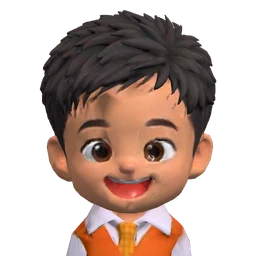
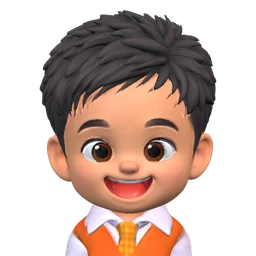
Polish phone camera, controls, HUD, portraits, and jump bar

diff --git a/src/styles.css b/src/styles.css
@@ -179,14 +179,26 @@ html.touch-ui.game-started .touch-layer {
   position: absolute;
   box-sizing: border-box;
   border-radius: 50%;
-  border: 5px solid rgba(255, 255, 255, 0.9);
-  opacity: 0.82;
+  border: 0;
+  opacity: 0.9;
   display: flex;
   align-items: center;
   justify-content: center;
-  box-shadow: 0 4px 12px rgba(0, 0, 0, 0.3);
+  box-shadow: none;
   transition: transform 0.06s, opacity 0.06s, filter 0.06s;
   pointer-events: none; /* the layer does the hit testing */
+}
+.tc-button-visual {
+  width: 82%;
+  height: 82%;
+  border-radius: 50%;
+  border: 4px solid rgba(255, 255, 255, 0.9);
+  box-sizing: border-box;
+  display: flex;
+  align-items: center;
+  justify-content: center;
+  box-shadow: 0 3px 9px rgba(0, 0, 0, 0.26);
+  transition: transform 0.06s, filter 0.06s;
 }
 .tc-button svg {
   width: 62%;
@@ -194,10 +206,12 @@ html.touch-ui.game-started .touch-layer {
   filter: drop-shadow(0 2px 2px rgba(0, 0, 0, 0.25));
 }
 .tc-button.pressed {
-  transform: scale(0.9);
   opacity: 1;
+}
+.tc-button.pressed .tc-button-visual {
+  transform: scale(0.9);
   filter: brightness(1.25);
-  box-shadow: 0 0 0 6px rgba(255, 255, 255, 0.5);
+  box-shadow: 0 0 0 5px rgba(255, 255, 255, 0.45);
 }
 
 /* ---- Start screen (logo) ---- */
@@ -641,7 +655,9 @@ html.touch-ui .dlg.compact .dlg-text {
   color: #2b3a55;
   font-size: 24px;
   font-weight: 800;
-  line-height: 1.22;
+  /* Exact pixel line box avoids a 1 px scroll overflow from fractional
+     rounding in Safari/Chromium at phone scale. */
+  line-height: 30px;
   overflow-wrap: anywhere;
   text-wrap: pretty;
 }
@@ -671,7 +687,7 @@ html.touch-ui .dlg.compact .dlg-text {
   }
   .dlg-text {
     font-size: 19px;
-    line-height: 1.18;
+    line-height: 24px;
   }
   .dlg-card {
     gap: 10px;
@@ -818,9 +834,11 @@ html:not(.touch-ui) .prompt-key {
 
 /* Touch button pulse: "something is in reach" */
 .tc-button.pulse {
-  animation: tc-pulse 0.85s ease-in-out infinite;
-  box-shadow: 0 0 0 6px rgba(255, 210, 63, 0.75), 0 4px 12px rgba(0, 0, 0, 0.3);
   opacity: 1;
+}
+.tc-button.pulse .tc-button-visual {
+  animation: tc-pulse 0.85s ease-in-out infinite;
+  box-shadow: 0 0 0 5px rgba(255, 210, 63, 0.75), 0 3px 9px rgba(0, 0, 0, 0.26);
 }
 @keyframes tc-pulse {
   0%,
@@ -833,9 +851,9 @@ html:not(.touch-ui) .prompt-key {
 }
 
 /* Flying: the jump button glows and flickers like a jet while it is held */
-.tc-button.jets {
+.tc-button.jets .tc-button-visual {
   background: radial-gradient(circle at 50% 80%, #fff3b0 0%, #ffb020 45%, #ff6a00 100%) !important;
-  box-shadow: 0 0 0 6px rgba(255, 190, 40, 0.8), 0 0 26px 10px rgba(255, 140, 0, 0.65);
+  box-shadow: 0 0 0 5px rgba(255, 190, 40, 0.8), 0 0 22px 8px rgba(255, 140, 0, 0.65);
   opacity: 1;
   animation: tc-jets 0.16s ease-in-out infinite;
 }
@@ -850,7 +868,7 @@ html:not(.touch-ui) .prompt-key {
 }
 
 @media (prefers-reduced-motion: reduce) {
-  .tc-button.jets {
+  .tc-button.jets .tc-button-visual {
     animation: none;
   }
   .dlg-card.pop,
@@ -1903,6 +1921,8 @@ html.touch-ui .city-toast {
 html.touch-ui .ch5-stars,
 html.touch-ui .ch3-count {
   top: calc(env(safe-area-inset-top) + 44px);
+  left: calc(env(safe-area-inset-left) + 14px);
+  transform: none;
 }
 html.touch-ui .ch5-stars {
   padding: 1px 10px;

diff --git a/src/ui/TouchControls.ts b/src/ui/TouchControls.ts
@@ -7,7 +7,7 @@ export interface TouchButtonDef {
   /** Inline SVG markup (no text: the player cannot read). */
   icon: string;
   color: string;
-  /** CSS px, must stay >= 80. */
+  /** CSS px hit target, must stay >= 80. */
   size: number;
   /** Distance of the button's right/bottom edge from the screen corner (safe area is added). */
   right: number;
@@ -70,7 +70,7 @@ const JOYSTICK_ZONE = 0.45;
 const isShort = (m: ViewMetrics): boolean => m.h < SHORT_HEIGHT;
 const clamp = (v: number, lo: number, hi: number): number => Math.max(lo, Math.min(hi, v));
 
-/** Jump is the biggest button. Short: scales with the height, 88..100. Tall: 104. */
+/** Jump is the biggest hit target; its visible disc is smaller (CSS). */
 function jumpSize(m: ViewMetrics): number {
   return isShort(m) ? Math.round(clamp(m.h * 0.34, 88, 100)) : 104;
 }
@@ -306,8 +306,7 @@ export class TouchControls {
     for (const d of defs) {
       const b = div('tc-button');
       b.dataset.action = d.action;
-      b.style.background = d.color;
-      b.innerHTML = d.icon;
+      b.innerHTML = `<span class="tc-button-visual" style="background:${d.color}">${d.icon}</span>`;
       this.layer.appendChild(b);
       this.buttons.set(d.action, b);
       if (this.pulsing.has(d.action)) b.classList.add('pulse');

diff --git a/src/world/kota/KotaLevel.ts b/src/world/kota/KotaLevel.ts
@@ -21,6 +21,8 @@ import { MARKET } from './Bab3Data';
 import { Chapter4 } from './Chapter4';
 import { Chapter5 } from './Chapter5';
 import { Chapter6 } from './Chapter6';
+import { Kit } from '../bab1/Kit';
+import { JumpTutorial } from '../bab1/JumpTutorial';
 
 /** Recipes are CPU-only and identical on every visit: built once per page. */
 let BUILT: BuiltCity | null = null;
@@ -192,6 +194,14 @@ export class KotaLevel implements Level {
     const sp = this.spawn;
     this.streamer.ensureNear(sp.x, sp.z, STREAM.colIn);
     this.streamer.flushVisuals(sp.x, sp.z);
+    // CityData keeps the jump-bar collider after Chapter 1. Keep its striped
+    // visual too, otherwise returning players trip over an invisible bar.
+    if (sandbox || bab1) {
+      const b = CITY_LAYOUT.chapter1.bar;
+      const kit = new Kit(ctx.physics, mats, true);
+      new JumpTutorial(ctx, kit, ctx.fx.sparkles, { x: b.x, z: b.z, half: b.w / 2, h: b.h, plankDx: 1.6, collider: false, y: 0 });
+      kit.build(root);
+    }
 
     // The hidden old Barongsai building: a faint golden glimmer at its door and the hook zone.
     const door = CITY_LAYOUT.lab.door;

diff --git a/src/camera/ThirdPersonCamera.ts b/src/camera/ThirdPersonCamera.ts
@@ -14,7 +14,9 @@ export const CameraConfig = {
   /** Radians of rotation per pixel of mouse movement (pointer locked). */
   mouseSensitivity: 0.0025,
   /** Default distance from the look target (m). */
-  distance: 6,
+  // Phone review: 17% closer than the old framing, while preserving clear
+  // sight lines in the Lab. The manual close step reaches 3 m.
+  distance: 5,
   /** Closest the camera may get when pulled in by walls (m). */
   minDistance: 1.2,
   /** Look target height above the capsule center (capsule center ~0.55 m, head top ~1.1 m). */
@@ -64,8 +66,8 @@ export const CameraConfig = {
   flySharpness: 2.5,
 
   // --- Manual zoom (wheel, +/-, pinch, buttons, R3/L3): a multiplier on the whole follow distance ---
-  zoomMin: 0.55,
-  zoomMax: 1.9,
+  zoomMin: 0.6,
+  zoomMax: 2,
   /** Sharpness of the zoom easing (1/s) and seconds without change before it is saved. */
   zoomSharpness: 7,
   zoomSaveDelay: 0.6,

diff --git a/src/core/Save.ts b/src/core/Save.ts
@@ -222,7 +222,7 @@ function sanitize(raw: unknown): SaveData {
     if (typeof st.easyJump === 'boolean') out.settings.easyJump = st.easyJump;
     if (typeof st.easyFight === 'boolean') out.settings.easyFight = st.easyFight;
     if (typeof st.reduceShake === 'boolean') out.settings.reduceShake = st.reduceShake;
-    if (typeof st.zoom === 'number' && Number.isFinite(st.zoom)) out.settings.zoom = Math.max(0.55, Math.min(1.9, st.zoom));
+    if (typeof st.zoom === 'number' && Number.isFinite(st.zoom)) out.settings.zoom = Math.max(0.6, Math.min(2, st.zoom));
     if (typeof st.sound === 'boolean') out.settings.sound = st.sound;
     if (typeof st.music === 'boolean') out.settings.music = st.music;
     if (typeof st.musicVol === 'number' && Number.isFinite(st.musicVol)) out.settings.musicVol = Math.max(0, Math.min(1, st.musicVol));

diff --git a/scripts/portrait.html b/scripts/portrait.html
@@ -24,6 +24,11 @@ try {
   const sun = new THREE.DirectionalLight(0xffffff, 2.2);
   sun.position.set(1.5, 2.5, 3);
   scene.add(sun);
+  // Soft frontal fill: phone-sized portraits must keep both halves of the
+  // face readable instead of turning the side away from the key light black.
+  const fill = new THREE.DirectionalLight(0xddeeff, 1.5);
+  fill.position.set(-2.5, 1.5, 4);
+  scene.add(fill);
   scene.add(gltf.scene);
   const idle = gltf.animations.find((a) => a.name === 'idle') ?? gltf.animations[0];
   if (idle) {
